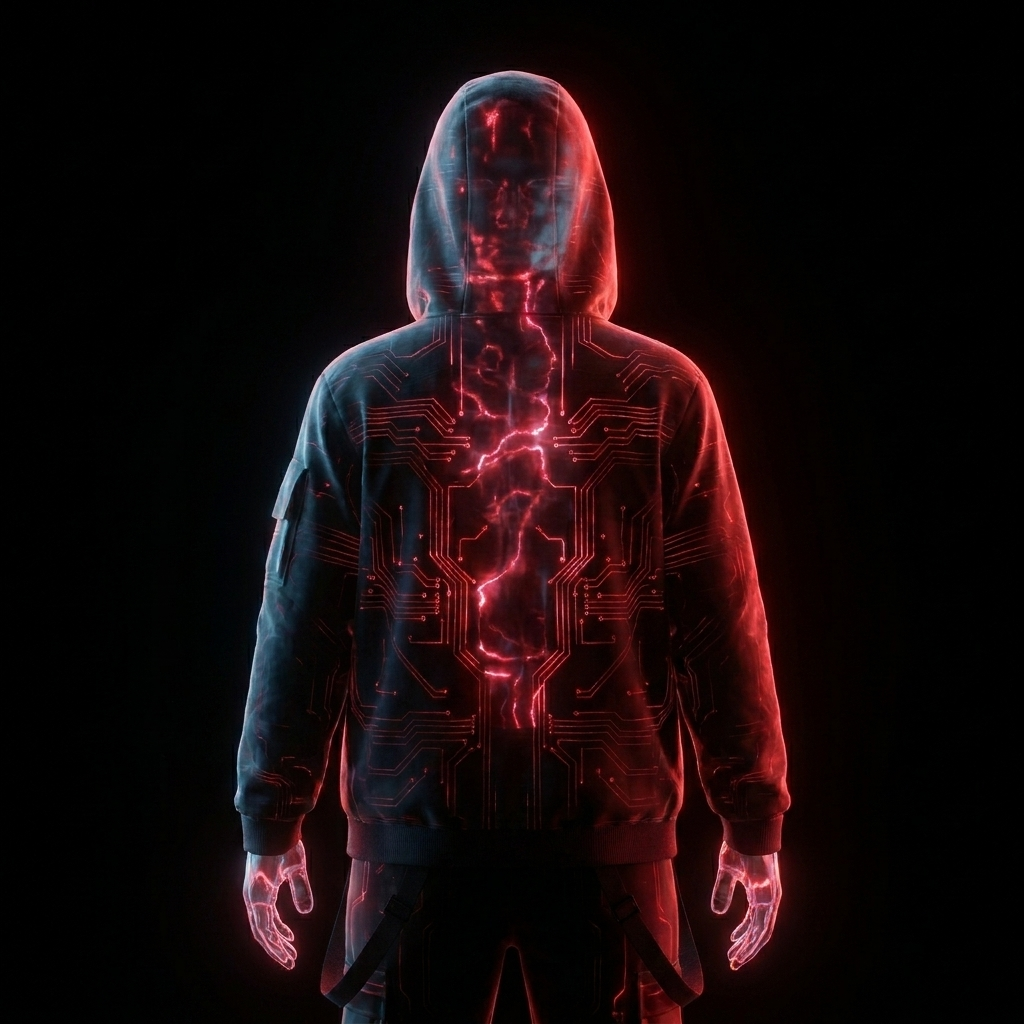
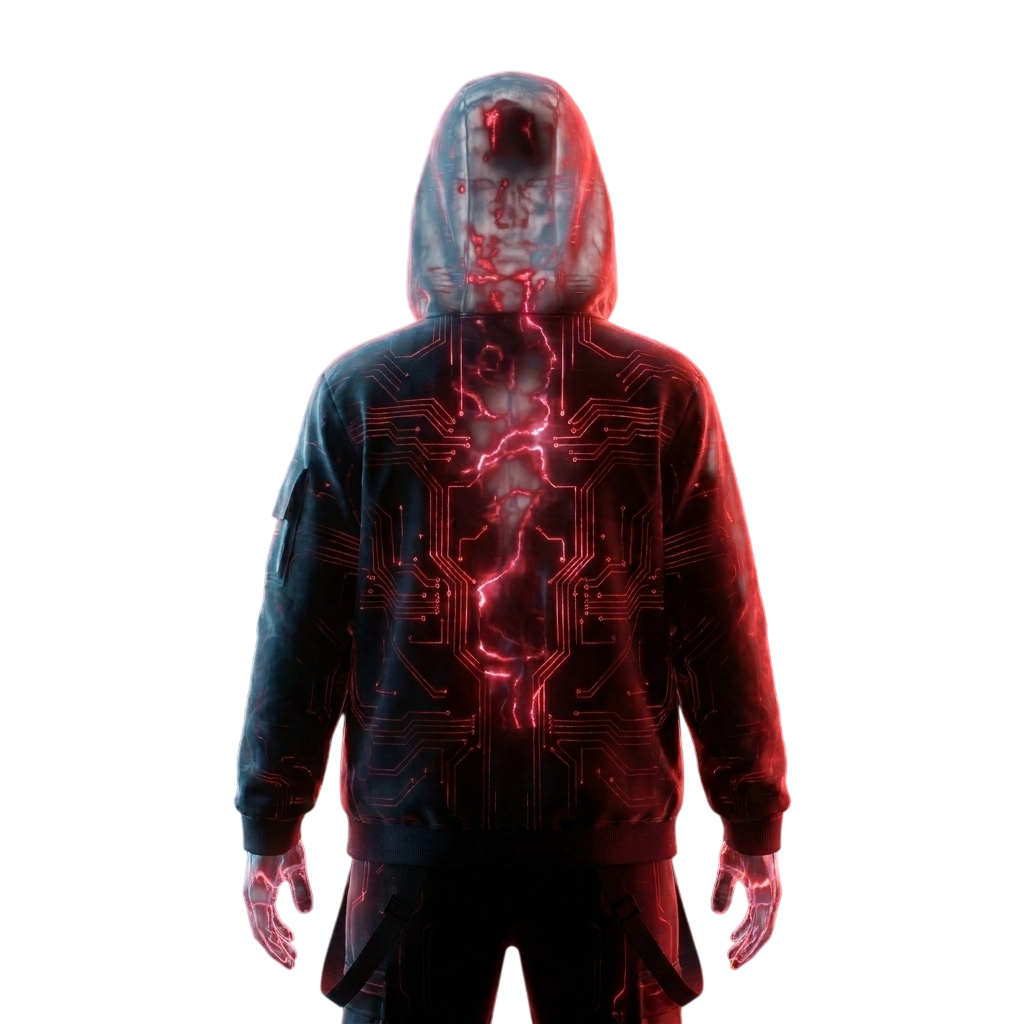
feat: add InteractiveAvatar component with drag-to-rotate and click-to-zoom capabilities

diff --git a/src/components/InteractiveAvatar.jsx b/src/components/InteractiveAvatar.jsx
@@ -75,7 +75,7 @@ export default function InteractiveAvatar({ className = "" }) {
         <img
           src="/avatar-front.png"
           alt="Avatar Front"
-          className="absolute inset-0 w-full h-full object-contain pointer-events-none drop-shadow-[0_0_20px_rgba(230,57,70,0.4)]"
+          className="absolute inset-0 w-full h-full object-contain mix-blend-lighten pointer-events-none drop-shadow-[0_0_20px_rgba(230,57,70,0.4)]"
           style={{ backfaceVisibility: "hidden" }}
           draggable="false"
         />
@@ -83,7 +83,7 @@ export default function InteractiveAvatar({ className = "" }) {
         <img
           src="/avatar-back.png"
           alt="Avatar Back"
-          className="absolute inset-0 w-full h-full object-contain pointer-events-none drop-shadow-[0_0_20px_rgba(230,57,70,0.4)]"
+          className="absolute inset-0 w-full h-full object-contain mix-blend-lighten pointer-events-none drop-shadow-[0_0_20px_rgba(230,57,70,0.4)]"
           style={{ 
             backfaceVisibility: "hidden", 
             transform: "rotateY(180deg)" 